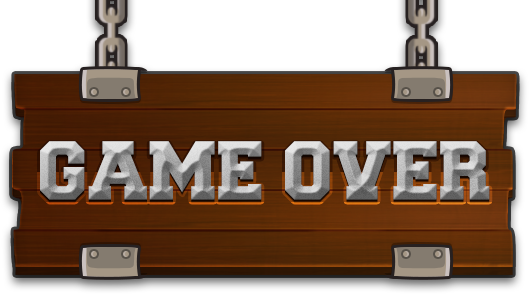
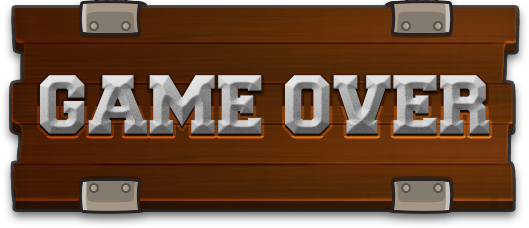
chains + temp vertical splash

diff --git a/core/src/com/jbs/totemgame/GameOverDialog.java b/core/src/com/jbs/totemgame/GameOverDialog.java
@@ -23,7 +23,6 @@ import com.badlogic.gdx.scenes.scene2d.ui.ImageButton.ImageButtonStyle;
 import com.badlogic.gdx.scenes.scene2d.ui.Label;
 import com.badlogic.gdx.scenes.scene2d.ui.Label.LabelStyle;
 import com.badlogic.gdx.scenes.scene2d.ui.Skin;
-import com.badlogic.gdx.utils.Align;
 import com.badlogic.gdx.scenes.scene2d.utils.ClickListener;
 import com.badlogic.gdx.utils.Array;
 import com.badlogic.gdx.utils.Scaling;
@@ -37,9 +36,10 @@ public class GameOverDialog extends Dialog {
 	Label bestScoreLabel, scoreLabel;
 	Image label;
 	float x, y, ratio;
-	Image yourScore, bestScore, gameOver;
+	Image yourScore, bestScore;
 	Skin skin;
 	boolean moved, submittedScore;
+	GameOverSign gameOverSign;
 
 	public GameOverDialog(int score, Skin skin, GameScreen gs, TotemGame game,
 			boolean submittedScore) {
@@ -87,10 +87,10 @@ public class GameOverDialog extends Dialog {
 		this.score = score;
 
 		String[] paths = { "ui/gameover/replay.png", "ui/gameover/highscores.png",
-				"ui/gameover/achievements.png" }; 
+				"ui/gameover/achievements.png" };
 		/*
 		 * , "ui/gameover/twitter.png",
-				"ui/gameover/facebook.png"
+		 * "ui/gameover/facebook.png"
 		 */
 
 		for (int i = 0; i < paths.length; i++) {
@@ -108,13 +108,15 @@ public class GameOverDialog extends Dialog {
 		Image panel = new Image(Icons.getTex("gameover/window.png"));
 		setBackground(panel.getDrawable());
 
-		panel.setSize(Constants.WIDTH, Constants.HEIGHT - 80);
+		panel.setSize(Constants.HUD_WIDTH, Constants.HUD_HEIGHT - gs.hudTable.header.getHeight()
+				+ 15);
 		setSize(panel.getWidth(), panel.getHeight());
 
-		gameOver = new Image(Icons.getTex("gameover/gameover.png"));
-		gameOver.setPosition(Constants.WIDTH / 2 - gameOver.getWidth() / 2, Constants.HEIGHT);
-		gameOver.setScaling(Scaling.fill);
-		getContentTable().add(gameOver).colspan(imageButtons.size);
+		gameOverSign = new GameOverSign(panel);
+		gameOverSign.setPosition(Constants.HUD_WIDTH / 2 - gameOverSign.getWidth() / 2,
+				Constants.HUD_HEIGHT);
+		gameOverSign.setScaling(Scaling.fit);
+		getContentTable().add(gameOverSign).colspan(imageButtons.size);
 		getContentTable().row();
 
 		ImageButtonStyle removeAdStyle = new ImageButtonStyle();
@@ -160,7 +162,7 @@ public class GameOverDialog extends Dialog {
 		getContentTable().row();
 		getContentTable().add(bestScoreLabel).width(bestScore.getWidth())
 				.height(bestScore.getHeight()).fill().center().colspan(imageButtons.size);
-		
+
 		getContentTable().row();
 
 		for (int i = 0; i < imageButtons.size; i++) {
@@ -208,47 +210,47 @@ public class GameOverDialog extends Dialog {
 						TotemGame.soundManager.play("button");
 					}
 				});
-//		imageButtons.get(3).addListener(new ClickListener() { // twitter
-//					@Override
-//					public void clicked(InputEvent event, float x, float y) {
-//						super.clicked(event, x, y);
-//						TotemGame.soundManager.play("button");
+// imageButtons.get(3).addListener(new ClickListener() { // twitter
+// @Override
+// public void clicked(InputEvent event, float x, float y) {
+// super.clicked(event, x, y);
+// TotemGame.soundManager.play("button");
 //
-//						if (!TwitterUtil.loggedIn) {
-//							try {
-//								TwitterUtil.init();
-//								TwitterUtil.openURL();
-//							} catch (TwitterException e) {
-//								e.printStackTrace();
-//							} catch (IOException e) {
-//								e.printStackTrace();
-//							}
+// if (!TwitterUtil.loggedIn) {
+// try {
+// TwitterUtil.init();
+// TwitterUtil.openURL();
+// } catch (TwitterException e) {
+// e.printStackTrace();
+// } catch (IOException e) {
+// e.printStackTrace();
+// }
 //
-//							PinDialog pinDialog = new PinDialog(String.valueOf(score), skin, gs);
-//							gs.hudStage.addActor(pinDialog);
-//							pinDialog.setPosition(Constants.WIDTH / 2 - pinDialog.getWidth() / 2,
-//									Constants.HEIGHT / 2 - pinDialog.getHeight() / 2);
+// PinDialog pinDialog = new PinDialog(String.valueOf(score), skin, gs);
+// gs.hudStage.addActor(pinDialog);
+// pinDialog.setPosition(Constants.WIDTH / 2 - pinDialog.getWidth() / 2,
+// Constants.HEIGHT / 2 - pinDialog.getHeight() / 2);
 //
-//						} else {
-//							TwitterUtil.postFinal("I just scored " + score
-//									+ " points in Totem Stack!");
-//							TweetedDialog tweeted = new TweetedDialog(
-//									"Your tweet has been posted!", skin);
-//							gs.hudStage.addActor(tweeted);
-//							tweeted.setPosition(Constants.WIDTH / 2 - tweeted.getWidth() / 2,
-//									Constants.HEIGHT / 2 - tweeted.getHeight() / 2);
-//						}
+// } else {
+// TwitterUtil.postFinal("I just scored " + score
+// + " points in Totem Stack!");
+// TweetedDialog tweeted = new TweetedDialog(
+// "Your tweet has been posted!", skin);
+// gs.hudStage.addActor(tweeted);
+// tweeted.setPosition(Constants.WIDTH / 2 - tweeted.getWidth() / 2,
+// Constants.HEIGHT / 2 - tweeted.getHeight() / 2);
+// }
 //
-//					}
-//				});
-//		imageButtons.get(4).addListener(new ClickListener() { // facebook
-//					@Override
-//					public void clicked(InputEvent event, float x, float y) {
-//						super.clicked(event, x, y);
+// }
+// });
+// imageButtons.get(4).addListener(new ClickListener() { // facebook
+// @Override
+// public void clicked(InputEvent event, float x, float y) {
+// super.clicked(event, x, y);
 //
-//						TotemGame.soundManager.play("button");
-//					}
-//				});
+// TotemGame.soundManager.play("button");
+// }
+// });
 
 	}
 
@@ -273,9 +275,15 @@ public class GameOverDialog extends Dialog {
 		if (!moved) {
 // if (getActions().size == 0) {
 			moved = true;
-			gameOver.addAction(Actions.sequence(Actions.moveBy(0, gameOver.getHeight() * 3),
-					Actions.delay(1.35f), Actions.moveBy(0, -gameOver.getHeight() * 3, 0.25f)));
+			float origX = gameOverSign.getX();
+			float origY = gameOverSign.getY();
+			gameOverSign.addAction(Actions.sequence(Actions.moveTo(gameOverSign.getX(), gs.hudTable.header.getY()),
+					Actions.delay(1.35f), Actions.moveTo(gameOverSign.getX(), origY, 0.25f))); 
 // }
+		}
+
+		if (getActions().size == 0) {
+			gs.hudTable.toFront();
 		}
 
 	}

diff --git a/core/src/com/jbs/totemgame/GameOverSign.java b/core/src/com/jbs/totemgame/GameOverSign.java
@@ -1,0 +1,57 @@
+package com.jbs.totemgame;
+
+import com.badlogic.gdx.graphics.g2d.Batch;
+import com.badlogic.gdx.scenes.scene2d.ui.Image;
+import com.badlogic.gdx.utils.Array;
+
+public class GameOverSign extends Image {
+	Array<Image> chains = new Array<Image>();
+	Image panel;
+	boolean startGen;
+
+	public GameOverSign(Image panel) {
+		super(Icons.getTex("gameover/gameover.png"));
+
+		this.panel = panel;
+
+			Image chain = new Image(Icons.getTex("gameover/chain.png"));
+			chain.setPosition(panel.getX() + getX(), panel.getY() + getY() + getHeight());
+			chains.add(chain);
+		
+	}
+
+	@Override
+	public void act(float delta) {
+		super.act(delta);
+
+		for (Image image : chains) {
+			image.act(delta);
+		}
+
+		for (int i = 0; i < chains.size; i++) {
+			chains.get(i).setPosition(panel.getX() + getX(),
+					panel.getY() + getY() + getHeight() + i * chains.get(0).getHeight());
+		}
+
+		if (!startGen) {
+			if (getY() + getHeight() < panel.getY() + panel.getHeight()) {
+				startGen = true;
+			}
+		}
+
+		if (chains.get(chains.size - 1).getY() + chains.get(0).getHeight() < panel.getY()
+						+ panel.getHeight()) {
+			Image chain = new Image(Icons.getTex("gameover/chain.png"));
+			chains.add(chain);
+		}
+	}
+
+	@Override
+	public void draw(Batch batch, float parentAlpha) {
+		super.draw(batch, parentAlpha);
+
+		for (Image image : chains) {
+			image.draw(batch, parentAlpha);
+		}
+	}
+}

diff --git a/core/src/com/jbs/totemgame/GameScreen.java b/core/src/com/jbs/totemgame/GameScreen.java
@@ -77,14 +77,14 @@ public class GameScreen extends AbstractScreen {
 
 			GameOverDialog god = new GameOverDialog(score, getSkin(), this, game, false);
 			god.setKeepWithinStage(false);
-			god.setPosition(Constants.WIDTH / 2 - god.getWidth() / 2, Constants.HEIGHT);
+			god.setPosition(Constants.HUD_WIDTH / 2 - god.getWidth() / 2, Constants.HUD_HEIGHT);
 			hudStage.addActor(god);
 
 			PowIn pi = new PowIn(2);
 			PowOut po = new PowOut(2);
-			god.addAction(Actions.sequence(Actions.moveBy(0, -Constants.HEIGHT, 0.75f, pi),
-					Actions.moveBy(0, Constants.HEIGHT / 8, 0.3f, po),
-					Actions.moveBy(0, -Constants.HEIGHT / 8, 0.3f, pi)));
+			god.addAction(Actions.sequence(Actions.moveBy(0, -Constants.HUD_HEIGHT, 0.75f, pi),
+					Actions.moveBy(0, Constants.HUD_HEIGHT / 8, 0.3f, po),
+					Actions.moveBy(0, -Constants.HUD_HEIGHT / 8, 0.3f, pi)));
 
 			gameOver = true;
 
@@ -191,7 +191,7 @@ public class GameScreen extends AbstractScreen {
 
 // Table.drawDebug(hudStage);
 // hudTable.debug();
-		hudTable.act(delta);
+//		hudTable.act(delta);
 
 		hudStage.draw();
 

diff --git a/core/src/com/jbs/totemgame/SplashScreen.java b/core/src/com/jbs/totemgame/SplashScreen.java
@@ -23,11 +23,11 @@ public class SplashScreen extends AbstractScreen {
 
 		splashImage = new Image(Icons.getTex("ui/JBSLogo.png"));
 		splashImage.setSize(Constants.HUD_WIDTH, Constants.HUD_HEIGHT);
-		splashImage.setScaling(Scaling.fit);
+		splashImage.setScaling(Scaling.stretch);
 		
 		hudStage.addActor(splashImage);
 		splashImage.setColor(1, 1, 1, 0);
-		splashImage.addAction(Actions.sequence(Actions.fadeIn(0.6f), Actions.delay(0.7f),
+		splashImage.addAction(Actions.sequence(Actions.fadeIn(0.0f), Actions.delay(1.0f),
 				Actions.fadeOut(0.3f), switchScreenAction));
 	}
 	

diff --git a/core/src/com/jbs/totemgame/HudTable.java b/core/src/com/jbs/totemgame/HudTable.java
@@ -118,8 +118,8 @@ public class HudTable extends Table {
 		}
 
 		top.row();
-		top.add(drapesLeft).left();
-		top.add(drapesRight).right();
+		top.add(drapesLeft).height(drapes[0].getHeight() - 10).left();
+		top.add(drapesRight).height(drapes[0].getHeight() - 10).right();
 		add(top).expand().top();
 
 		if (game instanceof GameScreen) {

diff --git a/core/src/com/jbs/totemgame/AbstractScreen.java b/core/src/com/jbs/totemgame/AbstractScreen.java
@@ -81,7 +81,7 @@ public class AbstractScreen implements Screen {
 						: 0));
 
 		stage.act(delta);
-//		hudStage.act(delta);
+		hudStage.act(delta);
 		stage.draw();
 //		hudStage.draw();
 		
